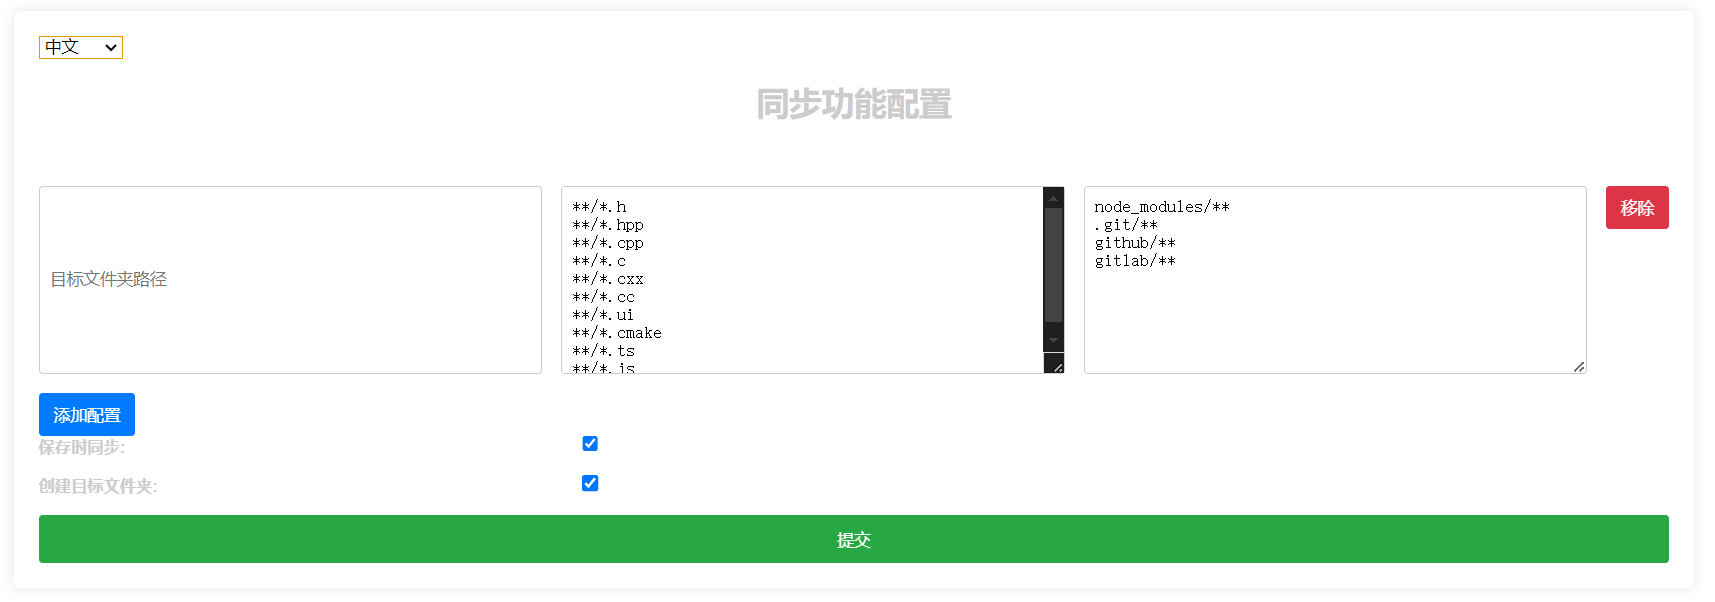
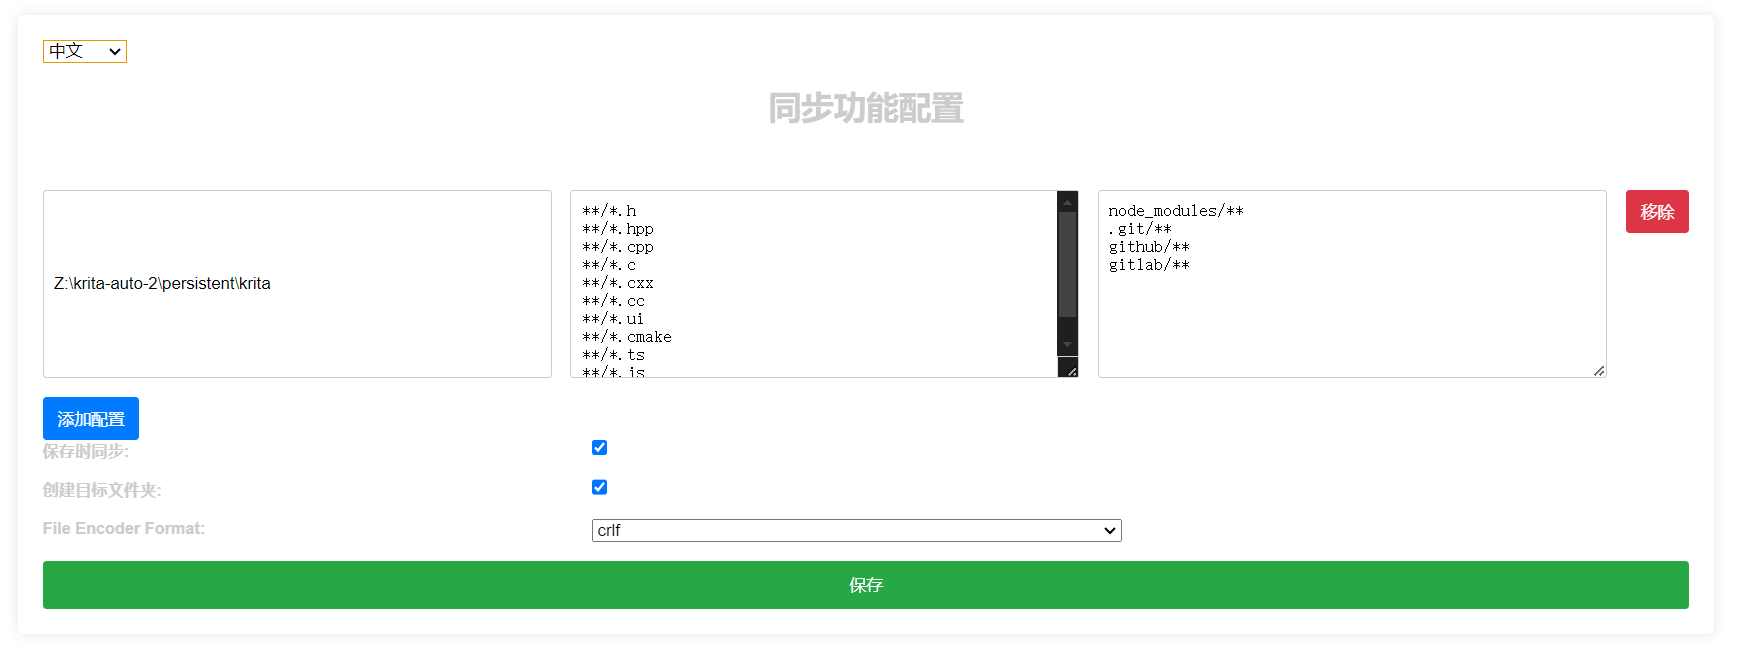
support file encoder format: lf or crlf

diff --git a/src/extension.ts b/src/extension.ts
@@ -17,7 +17,7 @@ interface SyncConfig {
     fileEncoderSelector: string;
 }
 
-let config: SyncConfig;
+let globalConfig: SyncConfig;
 let bSyning: boolean = true;
 
 /**
@@ -100,7 +100,7 @@ export function activate(context: vscode.ExtensionContext) {
                             const configPath = vscode.workspace.rootPath ? path.join(vscode.workspace.rootPath, 'sync.json') : '';
                             const formattedJson = message.data; //JSON.stringify(message.data, null, 2);
                             fs.writeFileSync(configPath, formattedJson, 'utf-8');
-
+                            globalConfig = JSON.parse(fs.readFileSync(configPath, 'utf-8'));
                             // 发送成功消息回 Webview
                             panel.webview.postMessage({
                                 command: 'updateConfigResult',
@@ -182,13 +182,13 @@ export function activate(context: vscode.ExtensionContext) {
             if (!bSyning) {
                 return;
             }
-            if (!config) {
+            if (!globalConfig) {
                 if (!fs.existsSync(configPath)) {
                     // console.log('未找到sync.json配置文件，不激活watcher');
                     return;
                 }
                 try {
-                    config = JSON.parse(fs.readFileSync(configPath, 'utf-8'));
+                    globalConfig = JSON.parse(fs.readFileSync(configPath, 'utf-8'));
                 } catch (error) {
                     console.log('未找到sync.json配置文件，不激活watcher');
                     vscode.window.showErrorMessage(`配置文件格式读取失败: ${error}`);
@@ -197,7 +197,7 @@ export function activate(context: vscode.ExtensionContext) {
             } else if (filePath === configPath) {
                 try {
                     const newConfig: SyncConfig = JSON.parse(fs.readFileSync(configPath, 'utf-8'));
-                    config = newConfig;
+                    globalConfig = newConfig;
                     vscode.window.setStatusBarMessage('同步配置已更新');
                 } catch (error) {
                     vscode.window.showErrorMessage(`同步配置更新失败: ${error}`);
@@ -205,11 +205,11 @@ export function activate(context: vscode.ExtensionContext) {
                 return;
             }
 
-            if (!config.syncOnSave) {
+            if (!globalConfig.syncOnSave) {
                 return;
             }
 
-            for (const target of config.targetFolders) {
+            for (const target of globalConfig.targetFolders) {
                 if (target.path === '' || path.resolve(vscode.workspace.rootPath || '', target.path) === vscode.workspace.rootPath) {
                     continue;
                 }
@@ -219,7 +219,7 @@ export function activate(context: vscode.ExtensionContext) {
                 const destPath = path.join(targetPath, relativePath);
                 try {
                     const destDir = path.dirname(destPath);
-                    if (config.createTargetFolder && !fs.existsSync(destDir)) {
+                    if (globalConfig.createTargetFolder && !fs.existsSync(destDir)) {
                         fs.mkdirSync(destDir, { recursive: true });
                     }
                 } catch (error) {
@@ -236,9 +236,9 @@ export function activate(context: vscode.ExtensionContext) {
                 if (shouldSync) {
                     try {
                         // 执行文件复制
-                        if (config.fileEncoderSelector === 'lf') {
+                        if (globalConfig.fileEncoderSelector === 'lf') {
                             copyFileWithLineEnding(filePath, destPath, 'lf');
-                        } else if (config.fileEncoderSelector === 'crlf') {
+                        } else if (globalConfig.fileEncoderSelector === 'crlf') {
                             copyFileWithLineEnding(filePath, destPath, 'crlf');
                         } else {
                             fs.copyFileSync(filePath, destPath);

diff --git a/README.md b/README.md
@@ -8,6 +8,7 @@ The syncOnSave extension supports backing up files to other folders upon saving.
 - Supports backup configurations for multiple paths.
 - File formats can be specified using regular expressions.
 - Supports format filtering and regular expressions.
+- Supports modification of file encoding line format during synchronization.
 
 ## Installation
 
@@ -22,7 +23,7 @@ The syncOnSave extension supports backing up files to other folders upon saving.
 
 ## Configuration
 ![Config](resources/config_en.png)
-<img alt="config" src='https://s3.bmp.ovh/imgs/2025/03/14/29bc1d1ec066806b.png'>
+<img alt="config" src = 'https://cdn.jsdelivr.net/gh/voipke/syncOnSave/resources/config_en.png' >
 
 Open the syncOnSave configuration page using the syncOnSave.initConfigSyncFile command: (./resources/config_en.png)
 1. Target Folder Path: Specifies the folder where you want to back up files upon saving.
